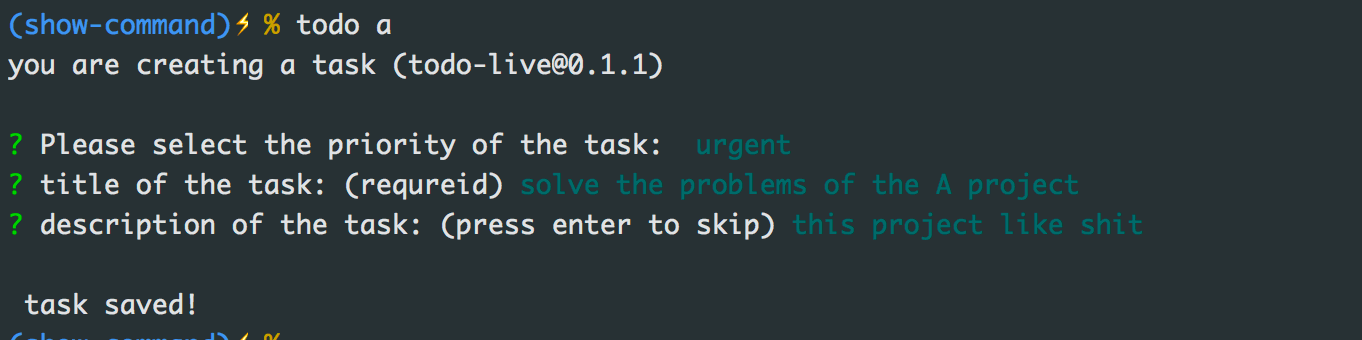
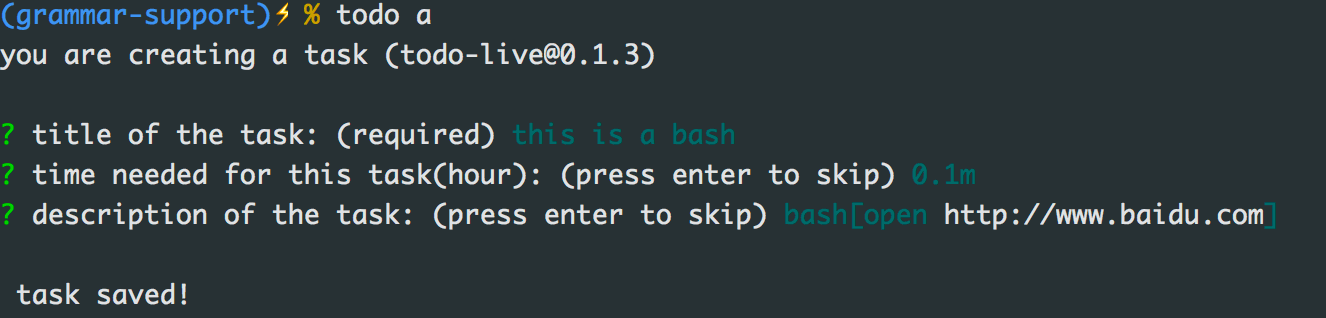
docs(readme): improve new grammer

diff --git a/README.md b/README.md
@@ -35,6 +35,18 @@ npm i -g todo-live
 
   `todo add` / `todo a`
 
+  1. you can set up the expiration time, the default unit is hourly
+
+      but you can still enter it like this:
+
+      `input "1 / 5m / 2d / 20.5m" => 1 hour / 5 minutes / 2 days / 20.5 minutes`
+
+  2. you can add bash script in details, just like: `bash[]`
+
+      the code will be executed at your specified time.
+
+      e.g. `bash[open https://www.google.com]`
+
   <img width="450" height="150" src=".github/examples/add.png">
 
 - task timeout notify
@@ -49,8 +61,8 @@ npm i -g todo-live
 
   <details>
     <summary><b>preview</b> </summary>
-    <img src=".github/examples/show-1.png">
-    <img src=".github/examples/show-2.png">
+    <img width="450" height="150" src=".github/examples/show-1.png">
+    <img width="450" height="150" src=".github/examples/show-2.png">
   </details>
 
 - solve a task, you can also take notes.
@@ -58,7 +70,7 @@ npm i -g todo-live
   `todo do {index}`
   <details>
     <summary><b>preview</b> </summary>
-    <img src=".github/examples/do-1.png">
+    <img width="450" height="200" src=".github/examples/do-1.png">
   </details>
 
 - remove a task
@@ -67,7 +79,7 @@ npm i -g todo-live
 
   <details>
     <summary><b>preview</b> </summary>
-    <img src=".github/examples/rm.png">
+    <img width="450" height="110" src=".github/examples/rm.png">
   </details>
   
 - show task histroy
@@ -76,7 +88,7 @@ npm i -g todo-live
 
   <details>
     <summary><b>preview</b> </summary>
-    <img src=".github/examples/log.png">
+    <img width="450" height="150" src=".github/examples/log.png">
   </details>
   
 ### About
